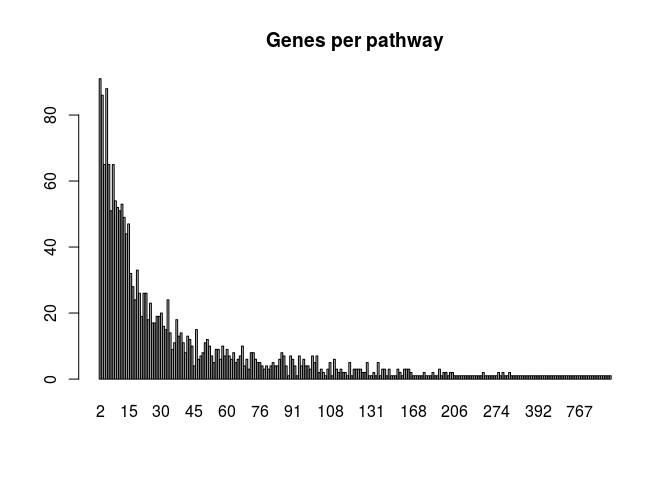
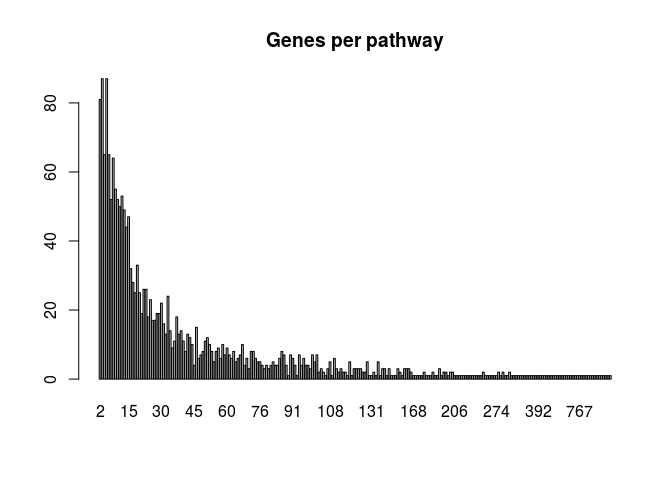
Update readme

diff --git a/README.md b/README.md
@@ -65,7 +65,7 @@ If we want to explore the human pathways of [REACTOME](https://reactome.org/)
 library("reactome.db")
 genesReact <- as.list(reactomeEXTID2PATHID)
 # Remove genes and pathways which are not from human pathways 
-human <- sapply(genesReact, function(x){any(grepl(pattern = "R-HSA-", x))})
+human <- sapply(genesReact, function(x){all(grepl(pattern = "R-HSA-", x))})
 genesReact <- genesReact[human]
 genesReact <- as.GeneSetCollection(genesReact, filter = TRUE)
 barplot(table(genesPerPathway(genesReact)), main = "Genes per pathway")
